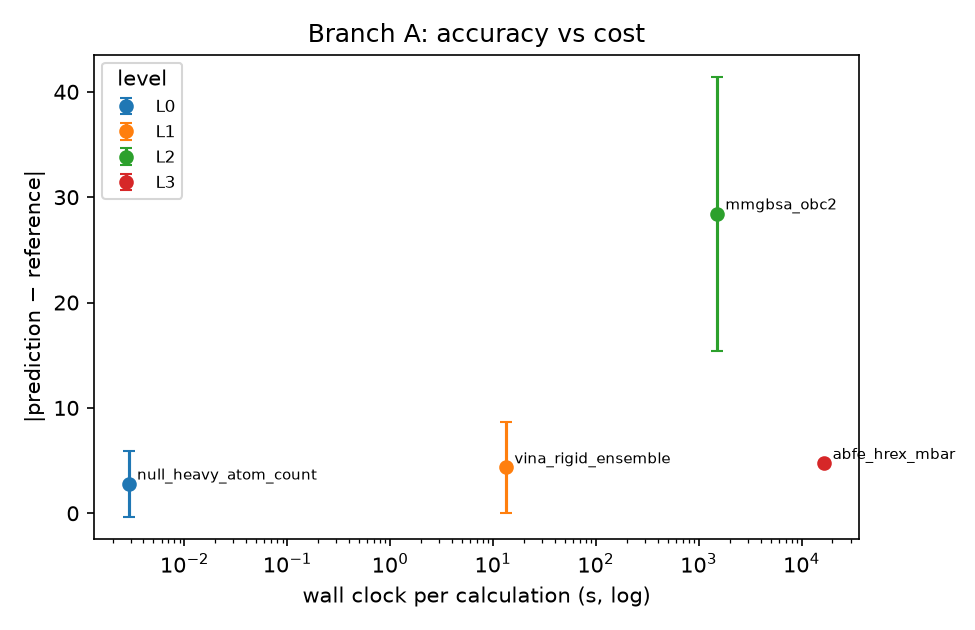
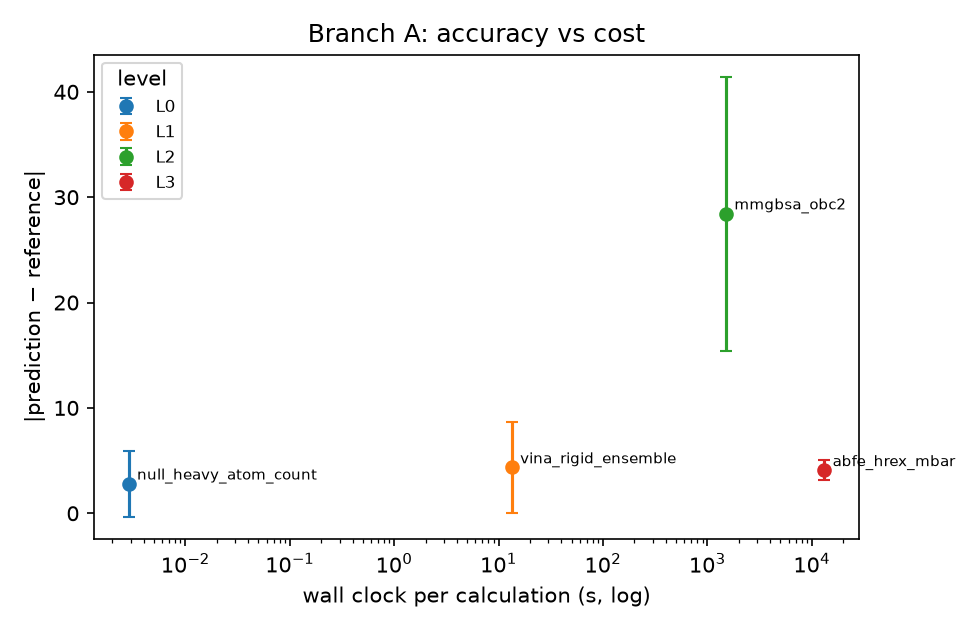
Branch A: denser electrostatics schedule converges the CB7 amantadine ABFE
Electrostatics windows at 0.1 plus 0.95 at the restraint boundary
(complex 24 -> 30 states, solvent 21 -> 27), same sampling. Neighbour
overlap >= 0.14, 3/5 round trips, -20.6 +/- 0.6 vs -17.19 kcal/mol in
2.7 h. The remaining overbinding is not a schedule artefact.

diff --git a/intent/A-binding-affinity.md b/intent/A-binding-affinity.md
@@ -72,8 +72,15 @@ Spearman rho with bootstrap 95 % CI; RMSE in kcal/mol; cost is median wall clock
   forward estimate is still drifting. The quoted sd underestimates the error. The
   overbinding is in the known direction for fixed-charge cationic CB7 guests, and the
   experiment's 50 mM sodium acetate (Na⁺ competes at the portals) is not modelled.
-  Next: double the electrostatics windows (5 → ~10) and add one at the boundary,
-  ~6–7 h per guest.
+  **Convergence check** (`configs/a_cb7_l3_abfe_g23_dense.yml`, 2026-10-18): same sampling,
+  electrostatics windows at 0.1 plus 0.95 (complex 30 states, solvent 27), 2.7 h on an
+  unshared GPU. −20.6 ± 0.6 vs −17.19. Neighbour overlap ≥ 0.14 everywhere, 3 (solvent)
+  and 5 (complex) round trips; solvent halves agree to 0.2 kT, complex halves differ by
+  1.7 kT because the first quarter is still relaxing (forward estimate 269.9 → 268.2 →
+  267.7 → 267.6 kT). The windows moved the result by 1.4 kcal/mol; the remaining
+  3.4 kcal/mol overbinding is not a sampling artefact of the schedule. Use this schedule
+  for the campaign; a longer complex leg (or discarding the first quarter) would tighten
+  the halves check.
 - **Caveats.** CB7 g3 (bis-trimethylammonium adamantane) sits at the portal in all L2
   replicates (COM 0.55–0.73 nm from the host centre); it is scored as simulated.
   g18 is simulated as the neutral acid. Propylbenzene's pose is placed in 186L, not
@@ -82,7 +89,7 @@ Spearman rho with bootstrap 95 % CI; RMSE in kcal/mol; cost is median wall clock
   Rows carry a `-dirty` code_version (uncommitted code).
 - **Storage:** `runs/a` 211 MB (HREX `.nc` deleted after `u_kln.npz` extraction);
   prepared systems 19 MB.
-- **Not done:** CB7 L3 for all 15 guests (~85–100 h with the denser schedule) and T4L L3
+- **Not done:** CB7 L3 for the other 14 guests (~2.7 h each with the denser schedule, ~38 h) and T4L L3
   (~10–20 h per ligand, `configs/a_t4l_l3_abfe.yml`) — both need approval; L4.
 
 ## Open questions
